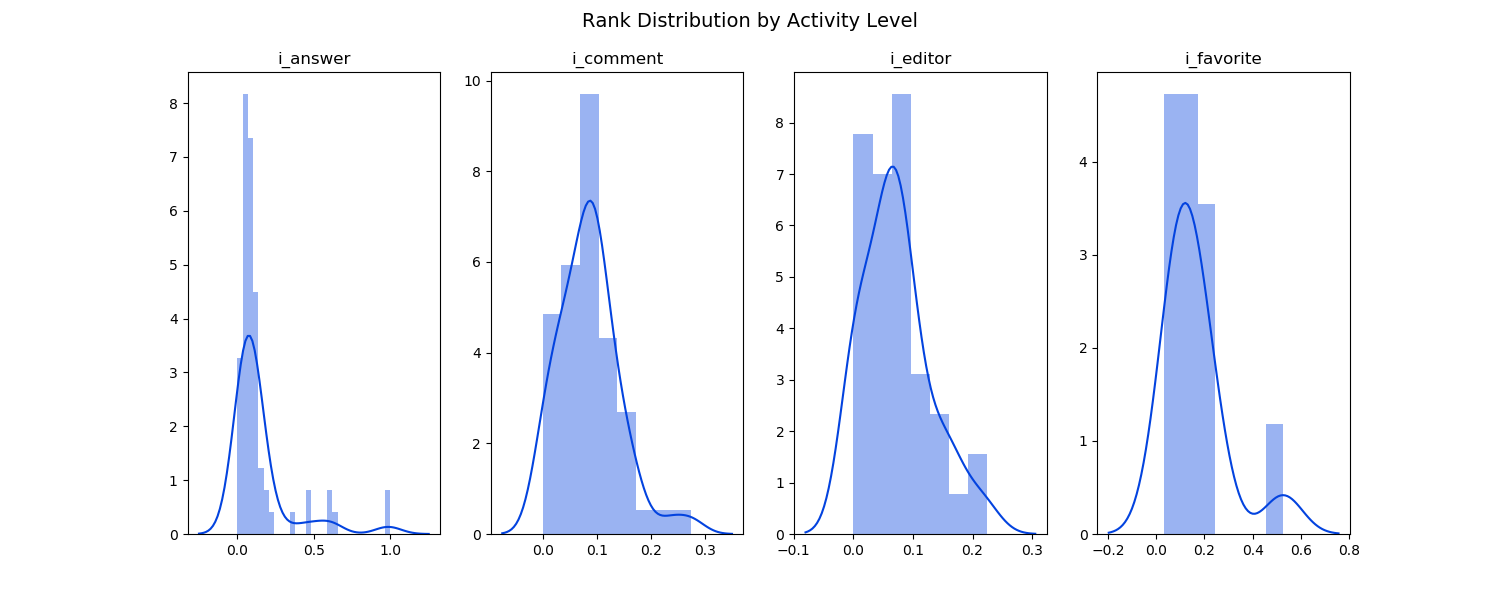
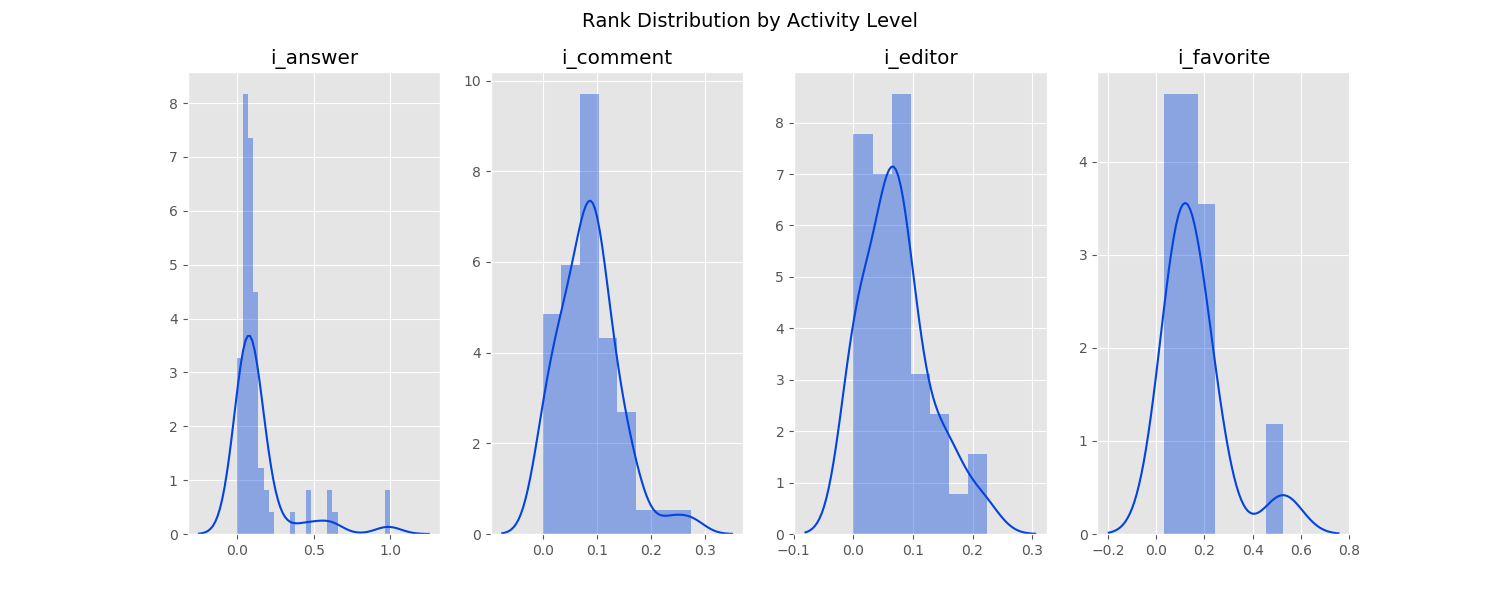
added loss function, summary statistics, and loss function plot

diff --git a/source/engine/test.py b/source/engine/test.py
@@ -1,6 +1,7 @@
 from engine import Engine
 from weights import WeightVector
 from visuals import ResidualPlots
+import math
 import numpy as np
 import pandas as pd
 import logging
@@ -19,15 +20,15 @@ class TestPlots:
                                            'TEST_residual_matrix.png')
 
     def rank_distributions(self):
-        ResidualPlots.plot_error_distributions(self.engine.residuals.raw_residuals_per_question,
+        ResidualPlots.plot_rank_error_distributions(self.engine.residuals.raw_residuals_per_question,
                                                'TEST_rank_distributions.png')
 
     def error_by_threshold(self):
-        ResidualPlots.plot_error_by_threshold(self.engine.residuals.raw_residuals_per_question,
+        ResidualPlots.plot_rank_error_by_threshold(self.engine.residuals.raw_residuals_per_question,
                                               'TEST_error_by_threshold.png')
 
     def variance_per_rank(self):
-        ResidualPlots.plot_variance_per_rank(self.engine.recommender_user_matrix,
+        ResidualPlots.plot_entropy_per_rank(self.engine.recommender_user_matrix,
                                              'TEST_entropy_per_rank.png')
 
     def roc_curve_all_activities(self):
@@ -41,13 +42,19 @@ class TestPlots:
         feature_order = ['availability', 'reputation', 'views', 'upvotes', 'downvotes', 'expertise']
         ResidualPlots.plot_weight_vs_error(error_weight, feature_order, inc, 'TEST_feature_weight_vs_error.png')
 
+    def distribution_loss_function(self, t):
+        n_users = len(Engine.unique_users_list)
+        threshold = math.floor(n_users * t)
+        ResidualPlots.plot_loss_function_error_distribution(self.engine.residuals.get_loss_function_errors(threshold),
+                                                            'TEST_distribution_loss_function.png')
+
 
 class TestWeightVector:
     def __init__(self, feature_names):
         self.feature_names = feature_names
 
     def weight_tune(self):
-        engine = Engine(visuals_active=True)
+        engine = Engine(visuals_active=False)
         w = WeightVector.tune_weight_vector(len(self.feature_names))
         engine.rank_all_questions(w, None)
 
@@ -60,7 +67,7 @@ class TestWeightVector:
 
 class Test:
     @staticmethod
-    def plot_tests(n_features, inc):
+    def plot_tests(n_features, inc, t):
         pt = TestPlots(n_features)
         pt.residual_matrix()
         pt.rank_distributions()
@@ -68,16 +75,23 @@ class Test:
         pt.roc_curve_all_activities()
         pt.variance_per_rank()
         TestPlots.feature_weight_vs_error(inc)
+        pt.distribution_loss_function(t)
 
     @staticmethod
-    def save_residual_files(n_features):
+    def save_residual_files(n_features, n_questions):
         engine = Engine(save_feature_matrices=True, visuals_active=False)
         weights = np.repeat(1, n_features)
         engine.rank_all_questions(weights, None)
 
         # residuals data frame
         raw_r = ResidualPlots.build_residual_dataframe(engine.residuals.raw_residuals_per_question)
-        raw_r.to_csv('residuals_600_q.csv')
+        raw_r.to_csv(f'residuals_{n_questions}_q.csv')
+
+    @staticmethod
+    def simplest_test(n_features):
+        engine = Engine(visuals_active=False)
+        weights = np.repeat(1, n_features)
+        engine.rank_all_questions(weights, None)
 
 
 def set_up_log_files(name):
@@ -115,9 +129,11 @@ Post Features and Residual Analysis:
 
 if __name__ == '__main__':
     set_up_log_files('run.log')
+    # Test.simplest_test(7)
+
     # TestPlots.feature_weight_vs_error(6)
 
-    # Test.plot_tests(7)
+    Test.plot_tests(7, 6, .17)
     # Test.save_residual_files(7)
 
     # features = ['availability', 'reputation', 'views', 'upvotes', 'downvotes', 'expertise', 'tag_sim_expertise']

diff --git a/source/engine/engine.py b/source/engine/engine.py
@@ -8,6 +8,8 @@ from visuals import ResidualPlots
 from collections import defaultdict
 from copy import copy
 import os
+import itertools
+import math
 
 # meta
 import logging
@@ -53,12 +55,35 @@ class Residuals:
         self.raw_residuals_per_question[y_index]['i_editor'] = index_editor
         self.raw_residuals_per_question[y_index]['i_favorite'] = index_favorite
 
-    def get_total_error(self):
+    def get_loss_function_errors(self, t):
+        def flatten_activities(activities):
+            return list(itertools.chain.from_iterable(activities))
+
+        errors = []
+        for y_index, activities in self.raw_residuals_per_question.items():
+            obs_q = flatten_activities(activities.values())
+            if len(obs_q) != 0:
+                errors.append(1 - (sum([1 if 0 <= obs <= t else 0 for obs in obs_q]) / len(obs_q)) )
+        return errors
+
+    def get_loss_function_total_error(self, t):
+        return sum(self.get_loss_function_errors(t))
+
+    def get_total_rank_error(self):
         d = self.flatted_errors()
         return sum([d[key] for key in d.keys()])
 
     def get_summarize_statistics(self, n_total_users):
+        n_questions = len(self.raw_residuals_per_question)
+
         stats = 'Residual Summary Statistics\n\n'
+
+        stats += f'----- META -----\n'
+        stats += f'Total Questions Ran: {n_questions}\n'
+        stats += f'Total Users Ranked: {n_total_users}\n\n'
+
+        stats += '----- RANK -----\n'
+        stats += f'Total Error (defined as the summation of ranks): {self.get_total_rank_error()}\n'
 
         stats += 'Error per User Activity:\n'
         stats += Residuals.pprint_dict(self.flatted_errors())
@@ -69,12 +94,20 @@ class Residuals:
         stats += '\nThreshold Accuracy per User Activity:\n'
         stats += Residuals.pprint_dict(self.summarize_error_by_threshold())
 
-        n_questions = len(self.raw_residuals_per_question)
-        stats += '\nAverage Rank Error Per Question: '
-        stats += str(self.get_total_error()/n_questions) + '\n'
+        stats += f'\nAverage Error Per Question: {self.get_total_rank_error() / n_questions}\n\n'
 
-        stats += 'Total Error: '
-        stats += str(self.get_total_error()) + '\n'
+        stats += '----- LOSS FUNCTION -----\n'
+        threshold_rank = math.floor(n_total_users*.17)
+        loss_errors = self.get_loss_function_errors(threshold_rank)
+        loss_error = sum(loss_errors)
+
+        stats += f'Threshold Choice: {threshold_rank}\n'
+        stats += f'Total Error: {loss_error}\n'
+        stats += f'Average ratio of missed users per question: {np.mean(loss_errors)}\n'
+        stats += f'Standard Deviation of missed users per question: {np.std(loss_errors)}\n\n'
+
+        stats += f'If we send out an email to {threshold_rank} out of {n_total_users} total users,\n' + \
+                 f'then we can expect to meet {(1 - np.mean(loss_errors)) * 100:.4f} of our target responders.'
         return stats
 
     def flatted_errors(self):
@@ -101,7 +134,7 @@ class Residuals:
             sub_df['capture_accuracy'] = sub_df['capture_accuracy'].apply(lambda x: x/_max_position)
             basic_increment_index = np.where(np.isin(np.array(sub_df['t']), summary_marker))
             summary_threshold = np.array(sub_df['capture_accuracy'])[basic_increment_index]
-            threshold_summary[activity] = {f'{round(t*100, 1)}%': t_error
+            threshold_summary[activity] = {f'{t*100:.4f}%': t_error
                                            for t, t_error in zip(summary_marker, summary_threshold)}
         return threshold_summary
 

diff --git a/source/engine/weights.py b/source/engine/weights.py
@@ -25,7 +25,7 @@ class WeightVector:
             engine = Engine(log_disabled=True, visuals_active=False)
             engine.rank_all_questions(weights, None)
             weight_dict = {f'f{i}': w for i, w in enumerate(weights)}
-            weight_dict['error'] = engine.residuals.get_total_error()
+            weight_dict['error'] = engine.residuals.get_total_rank_error()
             results_dict.append(weight_dict)
 
         t2 = time.time()
@@ -50,7 +50,7 @@ class WeightVector:
                 engine = Engine(log_disabled=True, visuals_active=False)
                 engine.rank_all_questions(weights, None)
                 weight_dict = {feature: weights[i] for i, feature in enumerate(features)}
-                weight_dict['error'] = engine.residuals.get_total_error()
+                weight_dict['error'] = engine.residuals.get_total_rank_error()
                 results_dict.append(weight_dict)
         t2 = time.time()
         logging.info(f'linear_weight_tune finished in {(t2-t1)/60} minutes.')
@@ -67,7 +67,7 @@ class WeightVector:
         t1 = time.time()
         engine = Engine(log_disabled=True, visuals_active=False)
         engine.rank_all_questions(weights, None)
-        prev_error = engine.residuals.get_total_error()
+        prev_error = engine.residuals.get_total_rank_error()
 
         bar = progressbar.ProgressBar()
         for i in bar(range(len(weights))):
@@ -96,7 +96,7 @@ class WeightVector:
                 e = Engine(log_disabled=True, visuals_active=False)
                 e.rank_all_questions(w, None)
                 p_error = c_error
-                c_error = engine.residuals.get_total_error()
+                c_error = engine.residuals.get_total_rank_error()
             return p_weight
 
         # first try increasing the weight
@@ -106,7 +106,7 @@ class WeightVector:
 
         engine = Engine(log_disabled=True, visuals_active=False)
         engine.rank_all_questions(w, None)
-        current_error = engine.residuals.get_total_error()
+        current_error = engine.residuals.get_total_rank_error()
         # if the error decreases, repeat the same operation unit it does not
         if current_error < prev_error:
             print('error decrease with increased alpha')
@@ -120,5 +120,5 @@ class WeightVector:
 
             engine = Engine(log_disabled=True, visuals_active=False)
             engine.rank_all_questions(w, None)
-            current_error = engine.residuals.get_total_error()
+            current_error = engine.residuals.get_total_rank_error()
             return loop_until_error_increase(current_error, prev_error, alpha, False)

diff --git a/source/engine/visuals.py b/source/engine/visuals.py
@@ -6,6 +6,7 @@ import numpy as np
 import logging
 from scipy import stats
 from sklearn.metrics import roc_curve, auc
+plt.style.use('ggplot')
 
 
 # https://stats.stackexchange.com/questions/51248/how-can-i-find-the-standard-deviation-in-categorical-distribution
@@ -82,7 +83,7 @@ class ResidualPlots:
         return pd.DataFrame(threshold_error_by_activity)
 
     @staticmethod
-    def plot_error_by_threshold(raw_residuals, save_path):
+    def plot_rank_error_by_threshold(raw_residuals, save_path):
         threshold_error_by_activity_df = ResidualPlots.build_threshold_dataframe(raw_residuals)
         sns.lmplot('t', 'capture_accuracy', data=threshold_error_by_activity_df, hue='activity', fit_reg=False,
                    palette=ResidualPlots.col_list_palette, markers='.')
@@ -91,7 +92,7 @@ class ResidualPlots:
         plt.show()
 
     @staticmethod
-    def plot_error_distributions(raw_residuals, save_path):
+    def plot_rank_error_distributions(raw_residuals, save_path):
         df = ResidualPlots.build_residual_dataframe(raw_residuals)
         activity_groups = df.groupby('activity')
         n_error_types = len(activity_groups)
@@ -109,12 +110,21 @@ class ResidualPlots:
         plt.show()
 
     @staticmethod
-    def plot_variance_per_rank(rank_matrix, save_path):
+    def plot_loss_function_error_distribution(loss_errors, save_path):
+        plt.hist(loss_errors, 15, normed=1)
+        plt.title('Distribution of all Loss Function Errors')
+        plt.savefig(save_path)
+        plt.xlabel('Error')
+        plt.ylabel('Frequency (normalized)')
+        plt.show()
+
+    @staticmethod
+    def plot_entropy_per_rank(rank_matrix, save_path):
         rank = np.arange(0, rank_matrix.shape[1])
         entropy_ar = np.array([entropy(rank_matrix[:, j]) for j in rank], dtype=np.float)
         sns.lmplot('rank', 'entropy', data=pd.DataFrame({'rank': rank, 'entropy': entropy_ar}),
                    fit_reg=False, markers='.')
-        # alternative, but less visibility sns.kdeplot(rank, entropy_ar, shade=True)
+        # alternative, but less clear: sns.kdeplot(rank, entropy_ar, shade=True)
         plt.title('Recommender System Entropy by Rank')
         plt.xlabel('User Rank')
         plt.ylabel('Entropy')
